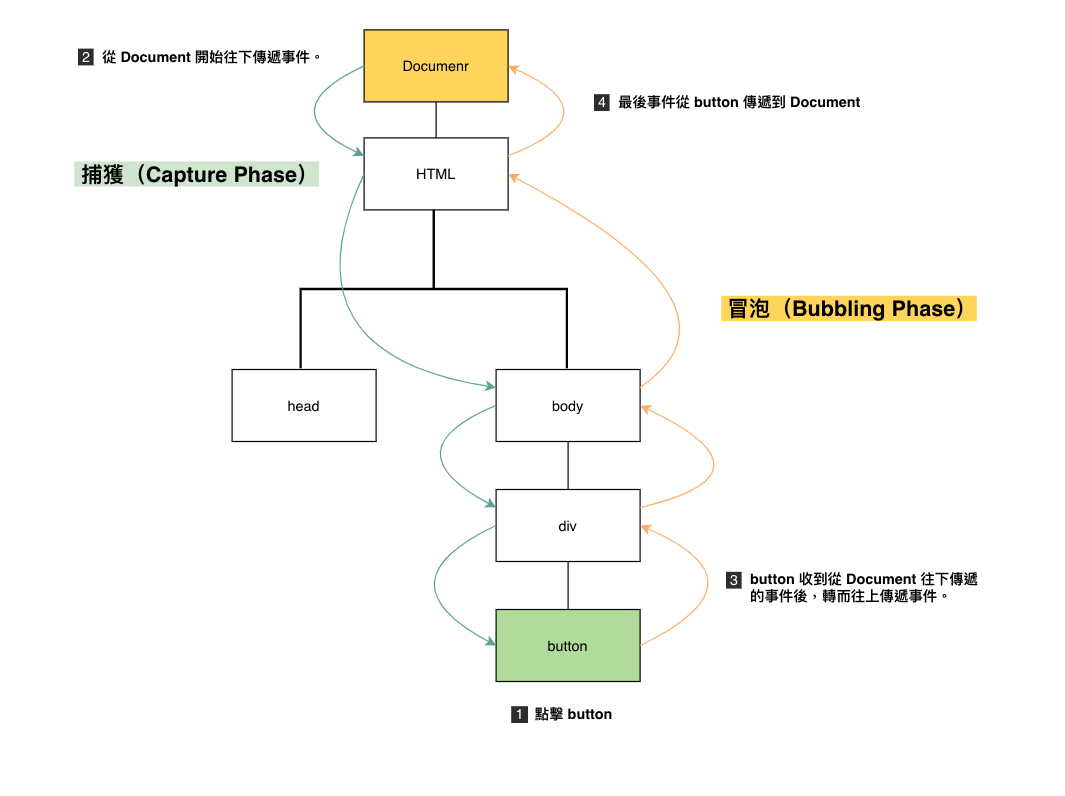
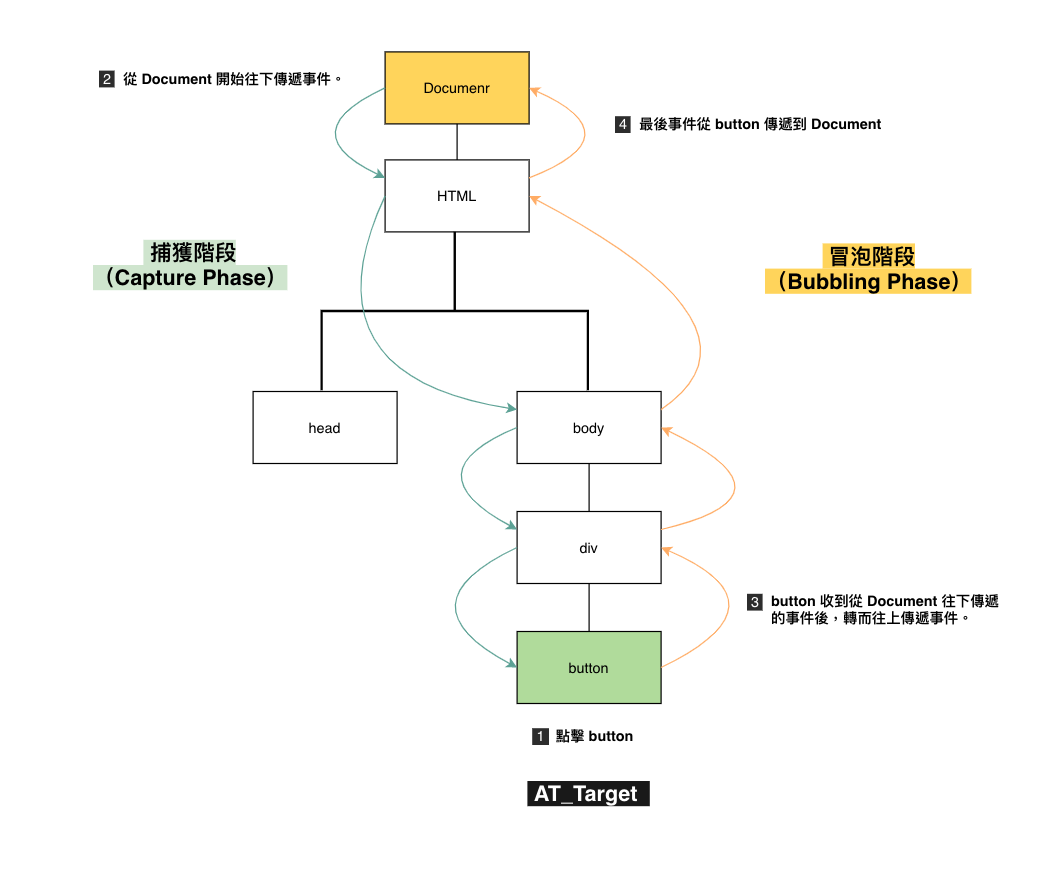
finished week7 hw4

diff --git a/homeworks/week7/hw4.md b/homeworks/week7/hw4.md
@@ -8,16 +8,55 @@
 
 ## 事件傳遞機制的順序是什麼；什麼是冒泡，什麼又是捕獲？
 
-先假想網頁元素中有個按鈕，然後我去點擊按鈕後（有了點擊事件，按鈕則是 target），開始整個點擊事件的傳遞機制：
-1. 當按鈕被點擊後，事件會開始從 DOM 最上層的 Document 開始往下傳遞。
-2. （開始捕獲階段）
-3. 當按鈕接收到 Document 傳遞過來的事件後，轉而往上傳遞事件。
-4. （開始冒泡階段）
-5. 最後，事件會傳給最上層的 Document。
+事件傳遞機制分為三大階段：
+
+1. 捕獲階段（capture phase）
+2. 接收事件的元件本身（AT_TARGET）
+3. 冒泡階段（bubbling phase）
+
+假設網頁中有個按鈕，當我去點擊按鈕後，按鈕（target）接收到點擊事件，就開始整個點擊事件的傳遞機制：
+
+1. 當按鈕被點擊後，就進入「捕獲階段」，事件從 DOM 最上層的 Document 開始往下傳遞，直到事件傳送到 **被點擊的按鈕**。
+3. 當 **被點擊的按鈕** 接收到從 Document 傳過來的事件後，也就進入了 AT_TARGET 階段，轉而往上層傳遞事件。
+4. 進入「冒泡階段」，直到最上層的 Document 接收到事件。
+
+附上自己畫的圖來說明：
 
 ![](dom.png)
 
+**為什麼需要知道事件傳遞機制？**
+
+因為有監聽事件的順序問題。如果網頁中有多個監聽器時，到底哪個要先執行？
+透過在安裝事件監聽器的時候，就能設定監聽事件的執行順序：[`element.addEventListener(type, listener [, useCapture]);`](https://developer.mozilla.org/en-US/docs/Web/API/EventTarget/addEventListener)。
+`addEventListener()` 中的第三個參數 `useCapture` 是布林值，若是 true，代表要監聽捕獲階段傳來的事件，false 則代表要監聽冒泡階段傳來的事件。
+
+所以在同個 target 設定兩個監聽器，監聽同個事件，但一個指定監聽獲階段的，另一個監聽冒泡階段的
+
+```javascript
+element.addEventListener(type, listener, true); //監聽捕獲階段
+element.addEventListener(type, listener, false); //監聽冒泡階段
+```
+
+監聽事件的執行順序就會是事件傳遞機制所說明的順序那樣，先是捕獲階段的，再來才是冒泡階段的。
+
+但需要注意一開始接收到事件的 target（例如：被點擊的按鈕）比較特別，因為不屬於捕獲階段，也不屬於冒泡階段，而是在 AT_TARGET 階段，所以就沒有捕獲階段或冒泡階段的差別，看的是 `addEventListener()` 的順序，先安裝的監聽器，就先使用。
+
 ## 什麼是 event delegation，為什麼我們需要它？
 
+事件代理（event delegation），運用了事件傳遞機制的特色，由於事件會在 target 被觸發後，依順序由最上往 target，再由 target 往上傳遞，  
+所以在監聽物件的 parent node 安裝事件監聽器，一旦 parent node 的子項目被事件觸發，parent node 也會被事件傳遞到。  
+通常用在 parent node 的子項目是動態產生的，或者有子項目數量很多的情況。
+
+例如在本週的待辦清單作業，為了做到點選特定待辦項目中的刪除鍵，該項目就要被刪除，會用一個 div 包住所有待辦項目，並把事件監聽器設定在 div 上，  
+這時 div 擔任的就是事件代理，這樣做可解決直接在刪除鍵安裝事件監聽器的兩大問題：
+
+1. 因為待辦項目是動態產生的，不會在一開始就寫入 HTML 檔案中，當使用者新增項目時才會出現，如果待辦項目本來就是空的，就無法先在每個待辦項目的刪除鍵安裝事件監聽器。
+2. 如果待辦項目超多，就要裝好多個監聽器。
+
+由於包住所有待辦項目的 div 本來就會被寫在 HTML 檔案內，而且不論使用者點擊哪個待辦事項中的刪除鍵，都會把事件也傳遞給 div，這樣只需要裝一個事件監聽器就夠了。
 
 ## event.preventDefault() 跟 event.stopPropagation() 差在哪裡，可以舉個範例嗎？
+
+兩者的差別在於「跟事件傳遞機制是否有關係？」。  
+`event.preventDefault()` 是阻止瀏覽器預設的行為；`event.stopPropagation()` 是停止事件繼續傳遞，讓事件不會被傳到下個節點（node）。  
+`event.preventDefault()` 跟事件傳遞機制無關，例如瀏覽器給按下（click）表單中的 button 預設行為是送出表單（submit），當在 button 放 `preventDefault()` 後，就會阻止瀏覽器預設的送出表單行為，也就是按下 button 後沒反應，但 click 事件仍會繼續傳遞，除非加上 `event.stopPropagation()` 才能停止事件繼續傳遞。
